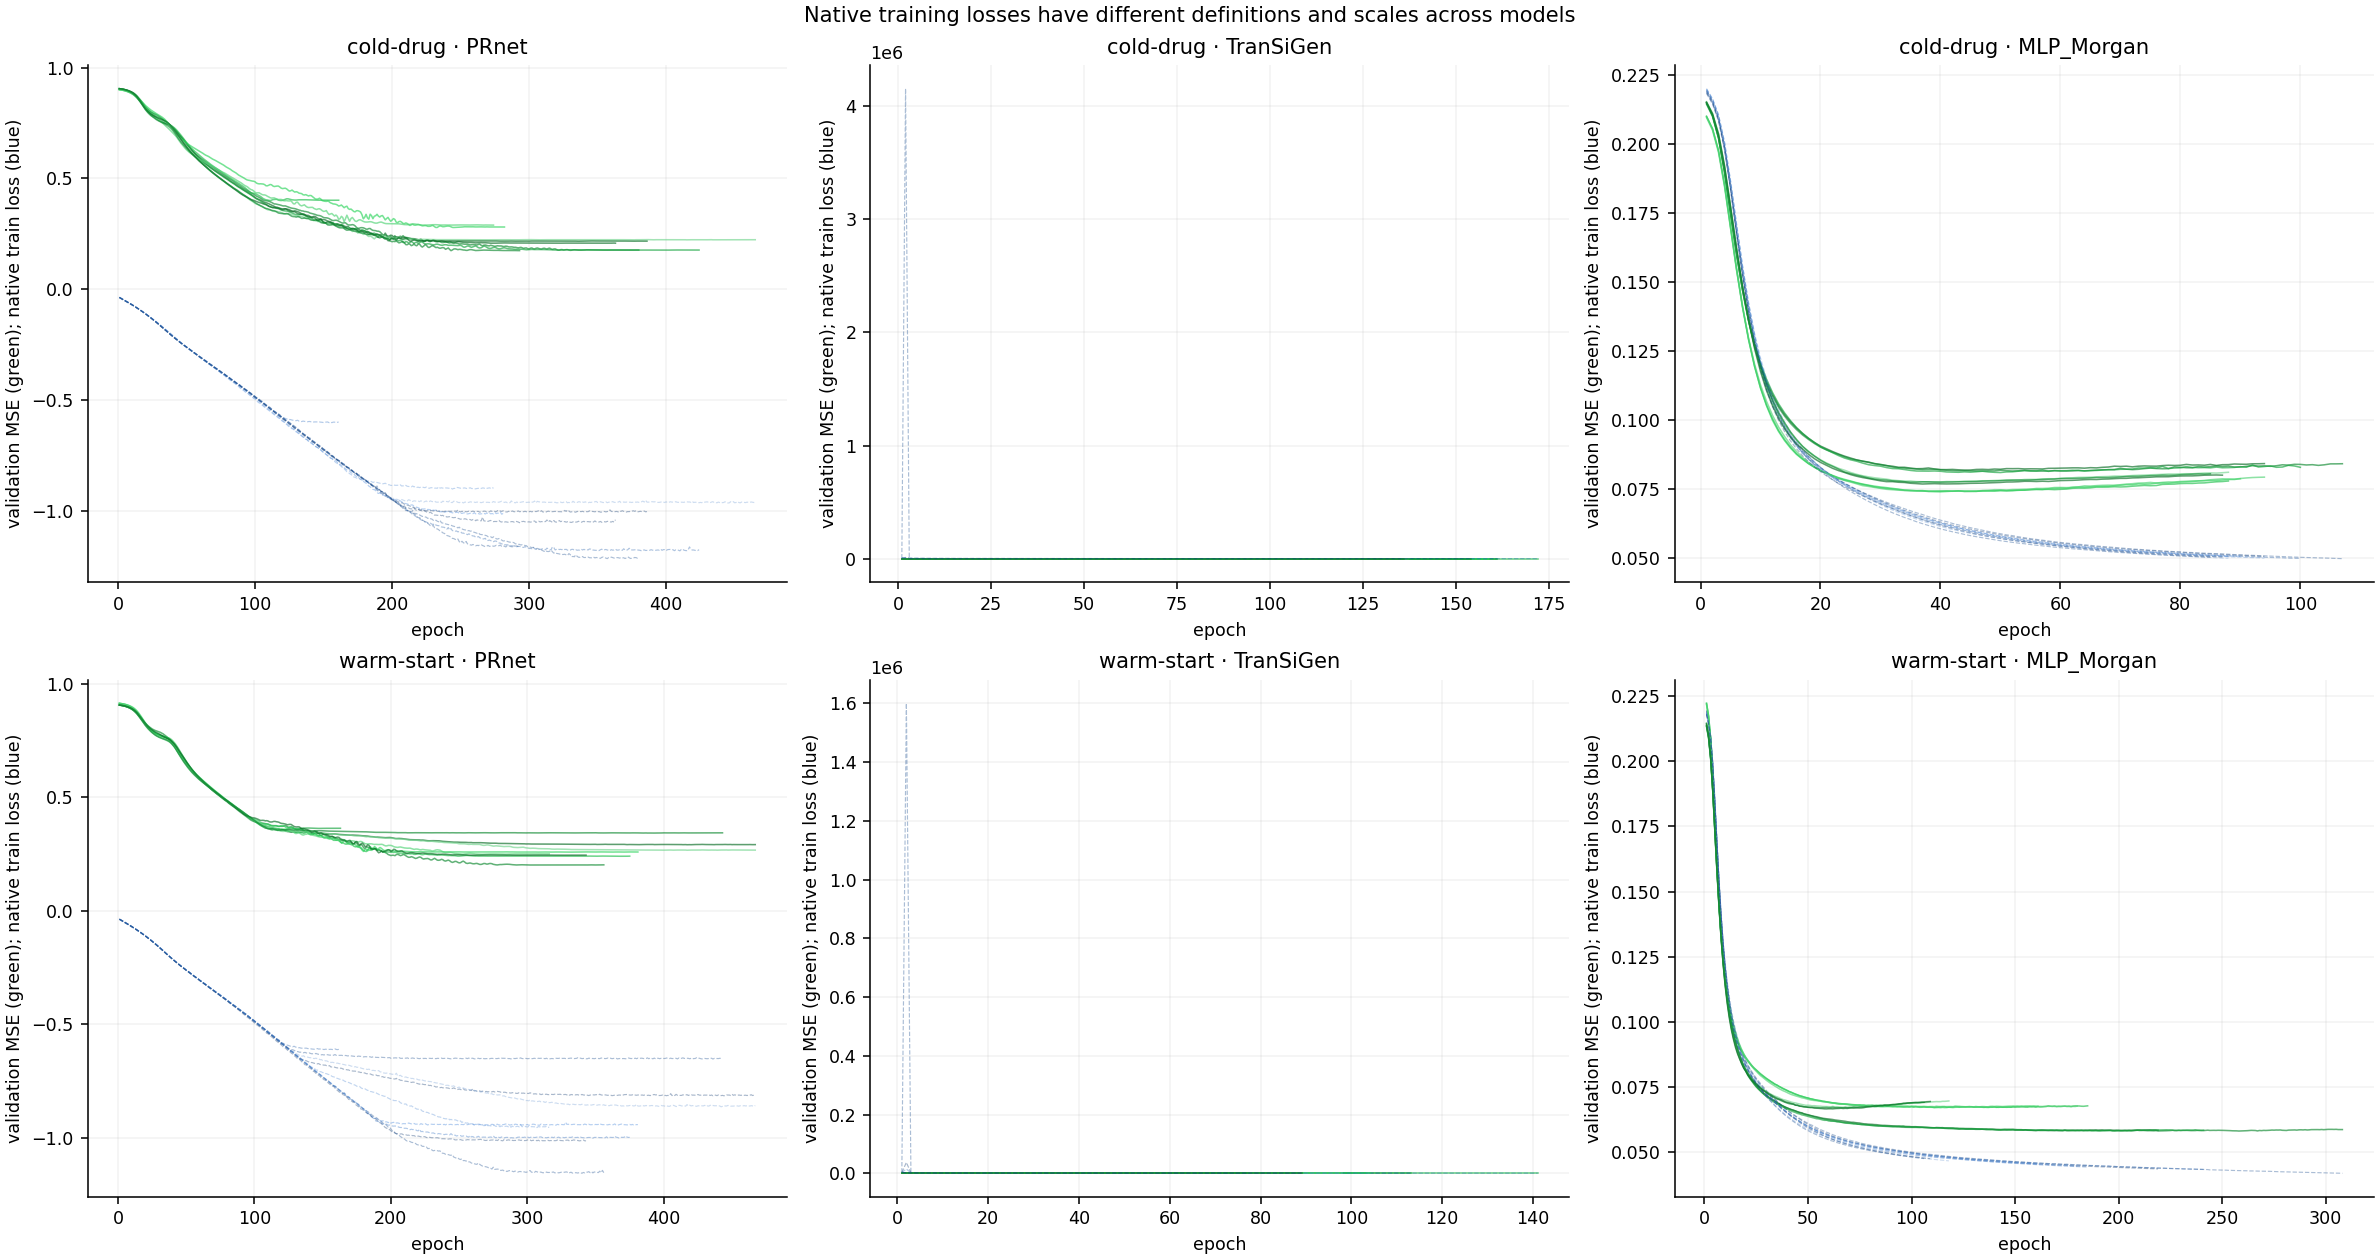
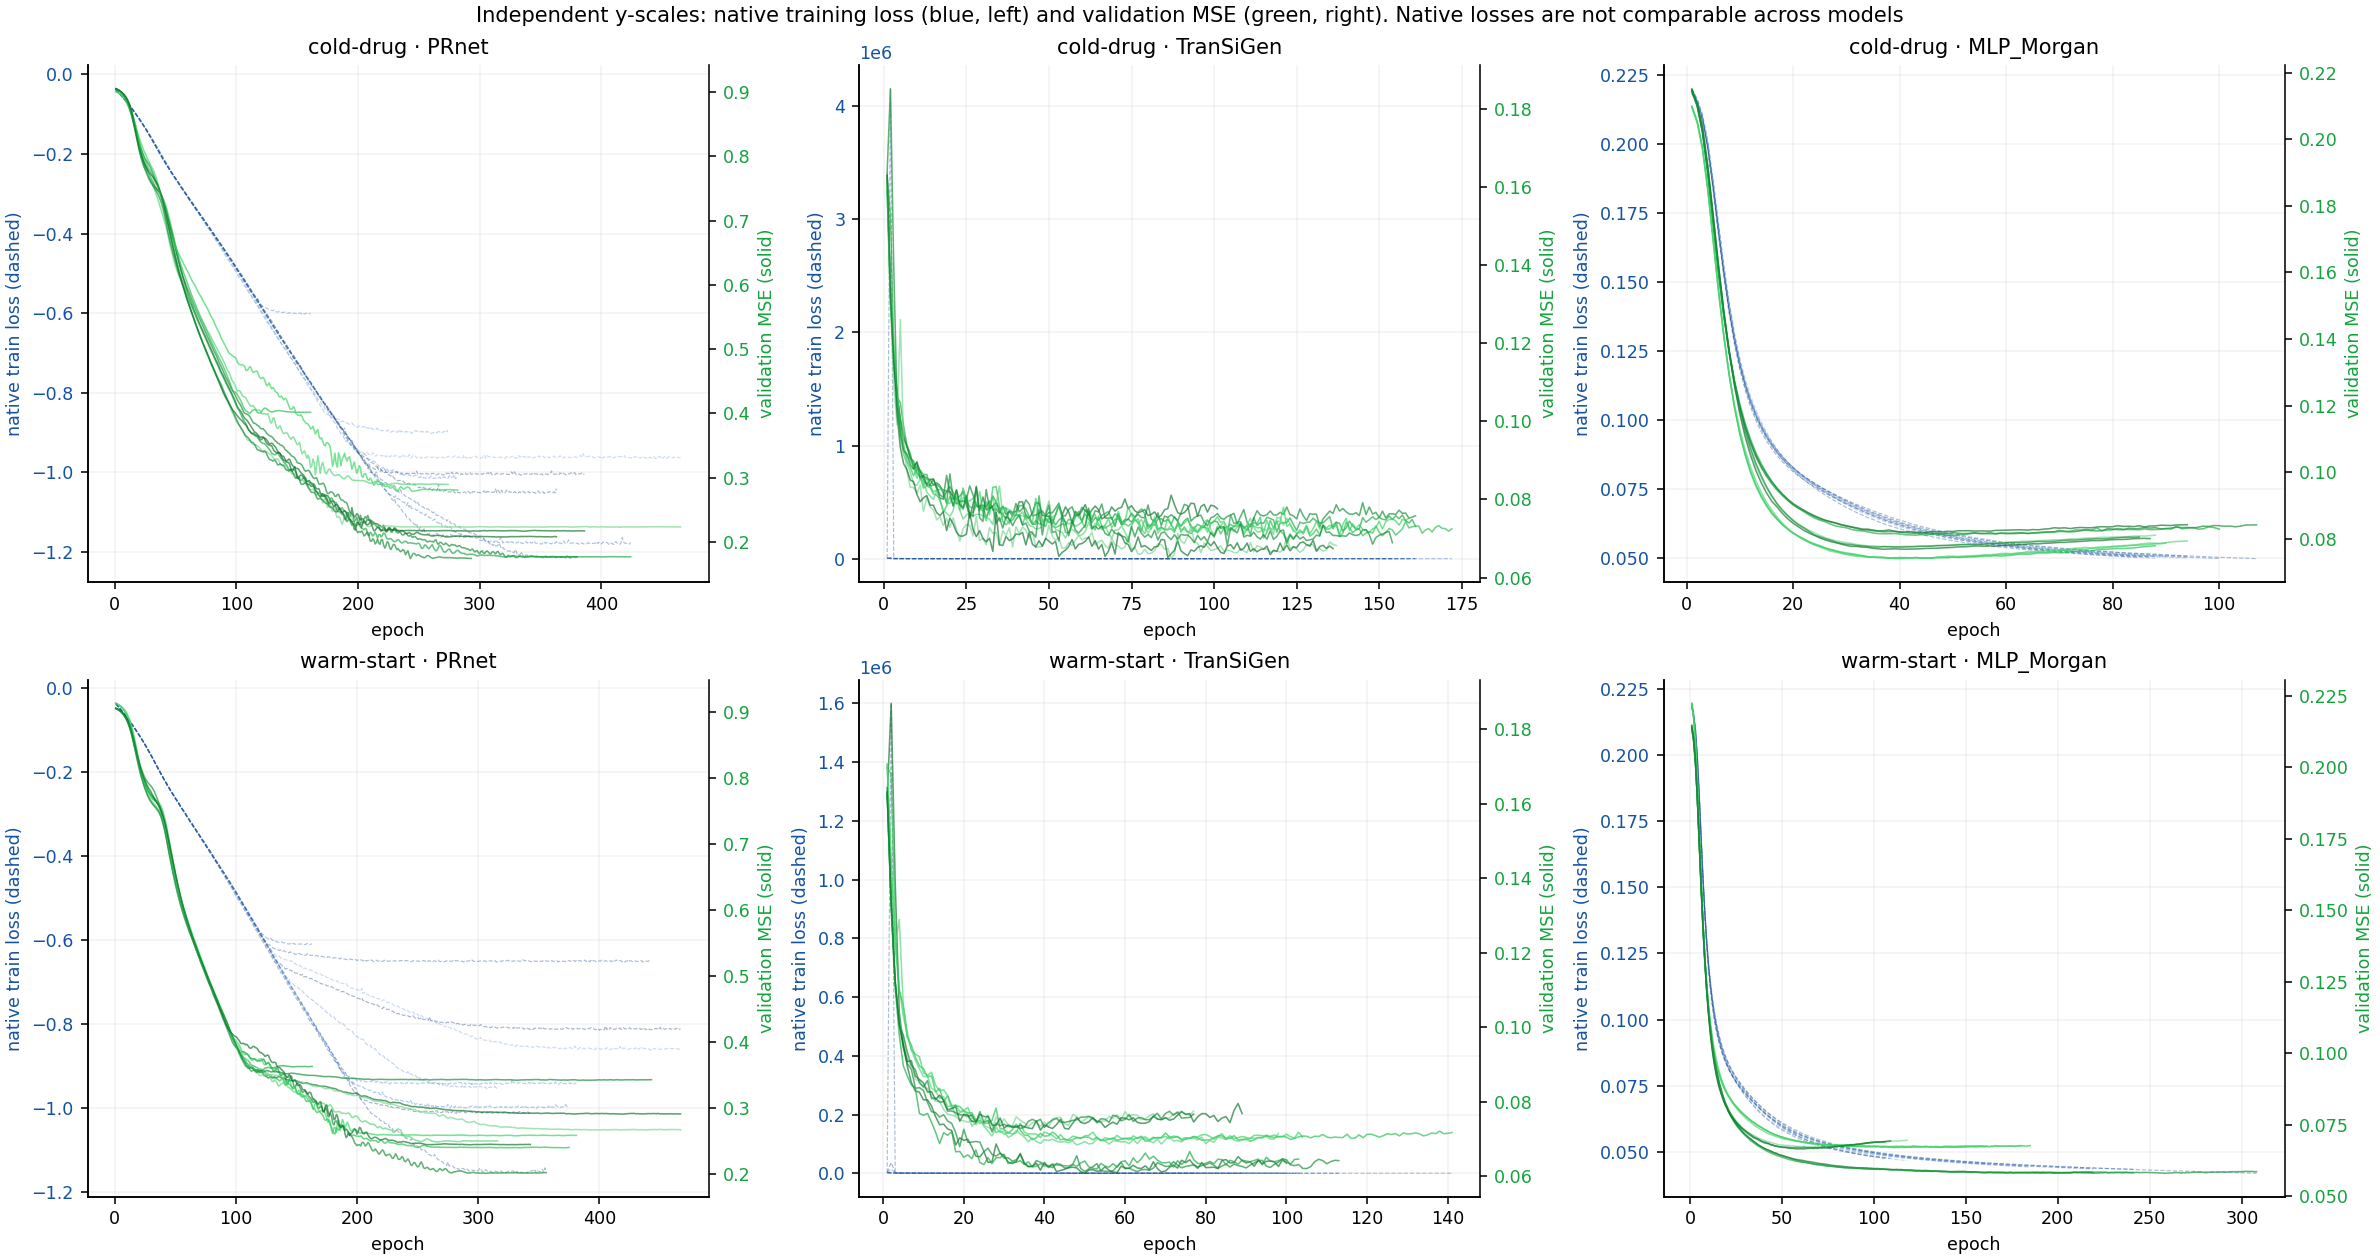
Separate native loss and validation axes in accepted learning curves

diff --git a/stage2/02_models_tenv-5k/figure/script/refresh_accepted_figures.py b/stage2/02_models_tenv-5k/figure/script/refresh_accepted_figures.py
@@ -1,0 +1,106 @@
+"""Verify a frozen accepted matrix, redraw its CSVs, and transactionally republish.
+
+Only figure hashes change. Training, inference, and scientific scoring never run.
+Interrupted candidate changes are restored before another refresh attempt.
+"""
+import argparse
+import copy
+import importlib.util
+import json
+import os
+from pathlib import Path
+import shutil
+import subprocess
+import tempfile
+
+STEP = Path(__file__).resolve().parents[2]
+spec = importlib.util.spec_from_file_location('frozen_matrix', STEP / 'execution/run_matrix.py')
+matrix = importlib.util.module_from_spec(spec)
+spec.loader.exec_module(matrix)
+
+
+def restore(candidate, journal):
+    state = json.loads(journal.read_text())
+    if not state.get('committed'):
+        backup = Path(state['backup'])
+        shutil.rmtree(candidate / 'figures', ignore_errors=True)
+        shutil.copytree(backup / 'figures', candidate / 'figures')
+        shutil.copy2(backup / 'acceptance.json', candidate / 'acceptance.json')
+    journal.unlink()
+
+
+def refresh(args):
+    candidate = args.candidate
+    journal = candidate / 'figure-refresh-journal.json'
+    if journal.exists():
+        restore(candidate, journal)
+    acceptance_path = candidate / 'acceptance.json'
+    original_sha = matrix.digest(acceptance_path)
+    accepted = json.loads(acceptance_path.read_text())
+    frozen = json.loads((candidate / 'plan.json').read_text())
+    if (accepted['schema'] != matrix.ACCEPTANCE_SCHEMA or accepted['runs'] != 54
+            or frozen != matrix.frozen_plan(args)
+            or accepted['plan_sha256'] != matrix.digest(candidate / 'plan.json')):
+        raise ValueError('accepted matrix identity differs')
+    for name, expected in accepted['files'].items():
+        if Path(name).is_absolute() or '..' in Path(name).parts or matrix.digest(candidate / name) != expected:
+            raise ValueError('accepted artifact changed: ' + name)
+    for run in matrix.plan():
+        matrix.verify_execution(matrix.run_path(candidate, run), run, frozen)
+    science = {name: value for name, value in accepted['files'].items() if name.startswith('comparison/')}
+    renderer = STEP / 'figure/script/render_figures.py'
+    with tempfile.TemporaryDirectory(prefix='figure-refresh-', dir=candidate) as temporary:
+        temporary = Path(temporary)
+        for name in ('first', 'replay'):
+            subprocess.run([args.python, str(renderer), '--figure-data', str(candidate / 'comparison'),
+                            '--out-dir', str(temporary / name)], check=True)
+        first = {p.name: matrix.digest(p) for p in (temporary / 'first').iterdir()}
+        replay = {p.name: matrix.digest(p) for p in (temporary / 'replay').iterdir()}
+        if first != replay or set(first) != {'learning_curve.png', 'metrics.png', 'paired_differences.png'}:
+            raise ValueError('CSV-only exact figure replay differs')
+        if any(matrix.digest(candidate / name) != value for name, value in science.items()):
+            raise ValueError('scientific report changed during rendering')
+        updated = copy.deepcopy(accepted)
+        old_png = {name: value for name, value in accepted['files'].items() if name.startswith('figures/')}
+        new_png = {'figures/' + name: value for name, value in first.items()}
+        updated['files'].update(new_png)
+        provenance = dict(reason='Separate native training loss and validation MSE onto labeled independent y axes',
+                          previous_acceptance_sha256=original_sha, renderer_sha256=matrix.digest(renderer),
+                          previous_figures_sha256=old_png, figures_sha256=new_png,
+                          unchanged_scientific_files_sha256=science,
+                          verified_fresh_execution_receipts=54, csv_only_exact_replay=True,
+                          frozen_plan_sha256=accepted['plan_sha256'])
+        updated['figure_refresh'] = provenance
+        backup = candidate / 'figure-refresh-history' / original_sha
+        if backup.exists():
+            if matrix.digest(backup / 'acceptance.json') != original_sha:
+                raise ValueError('figure refresh backup identity differs')
+        else:
+            backup.mkdir(parents=True)
+            shutil.copytree(candidate / 'figures', backup / 'figures')
+            shutil.copy2(acceptance_path, backup / 'acceptance.json')
+        pending = temporary / 'acceptance.json'
+        pending.write_text(json.dumps(updated, indent=2) + '\n')
+        journal.write_text(json.dumps(dict(backup=str(backup), committed=False)) + '\n')
+        try:
+            shutil.rmtree(candidate / 'figures')
+            os.rename(temporary / 'first', candidate / 'figures')
+            os.replace(pending, acceptance_path)
+            # Original immutable-runtime verifier and transactional installer.
+            matrix.publish(args)
+        except BaseException:
+            restore(candidate, journal)
+            raise
+        journal.write_text(json.dumps(dict(backup=str(backup), committed=True)) + '\n')
+        journal.unlink()
+    (STEP / 'log/231-figure-refresh.json').write_text(json.dumps(provenance, indent=2) + '\n')
+    print(json.dumps(provenance))
+
+
+if __name__ == '__main__':
+    parser = argparse.ArgumentParser(description=__doc__)
+    for name in ('candidate', 'inputs', 'means', 'prnet-source', 'transigen-source'):
+        parser.add_argument('--' + name, type=Path, required=True)
+    parser.add_argument('--device', default='cuda')
+    parser.add_argument('--python', required=True)
+    refresh(parser.parse_args())

diff --git a/stage2/02_models_tenv-5k/figure/script/render_figures.py b/stage2/02_models_tenv-5k/figure/script/render_figures.py
@@ -64,14 +64,20 @@ def render(data,out):
     fig,axes=plt.subplots(2,3,figsize=(17,9),constrained_layout=True)
     for i,scenario in enumerate(('cold-drug','warm-start')):
         for j,method in enumerate(('PRnet','TranSiGen','MLP_Morgan')):
-            ax=axes[i,j];rows=curves[(curves.scenario==scenario)&(curves.method==method)]
+            ax=axes[i,j];validation_ax=ax.twinx()
+            validation_ax.spines['right'].set_visible(True)
+            rows=curves[(curves.scenario==scenario)&(curves.method==method)]
             for index,(_,run) in enumerate(rows.groupby(['fold','seed'])):
-                # Every recorded epoch is plotted; shades cycle for 15 runs.
-                ax.plot(run.epoch,run.validation_mse,color=palette.color('green',index%7),alpha=.65,lw=.8)
+                # Every recorded epoch is plotted; shades identify the nine fold/seed runs.
+                validation_ax.plot(run.epoch,run.validation_mse,color=palette.color('green',index%7),alpha=.65,lw=.8)
                 ax.plot(run.epoch,run.train_loss,color=palette.color('blue',index%7),alpha=.35,lw=.6,ls='--')
-            ax.set_title(scenario+' · '+method);ax.set_xlabel('epoch');ax.set_ylabel('validation MSE (green); native train loss (blue)')
+            ax.set_title(scenario+' · '+method);ax.set_xlabel('epoch')
+            ax.set_ylabel('native train loss (dashed)',color=palette.color('blue',2))
+            validation_ax.set_ylabel('validation MSE (solid)',color=palette.color('green',2))
+            ax.tick_params(axis='y',labelcolor=palette.color('blue',2))
+            validation_ax.tick_params(axis='y',labelcolor=palette.color('green',2))
             ax.grid(alpha=.15)
-    fig.suptitle('Native training losses have different definitions and scales across models')
+    fig.suptitle('Independent y-scales: native training loss (blue, left) and validation MSE (green, right). Native losses are not comparable across models')
     fig.savefig(out/'learning_curve.png');plt.close(fig)
 
 if __name__=='__main__':
